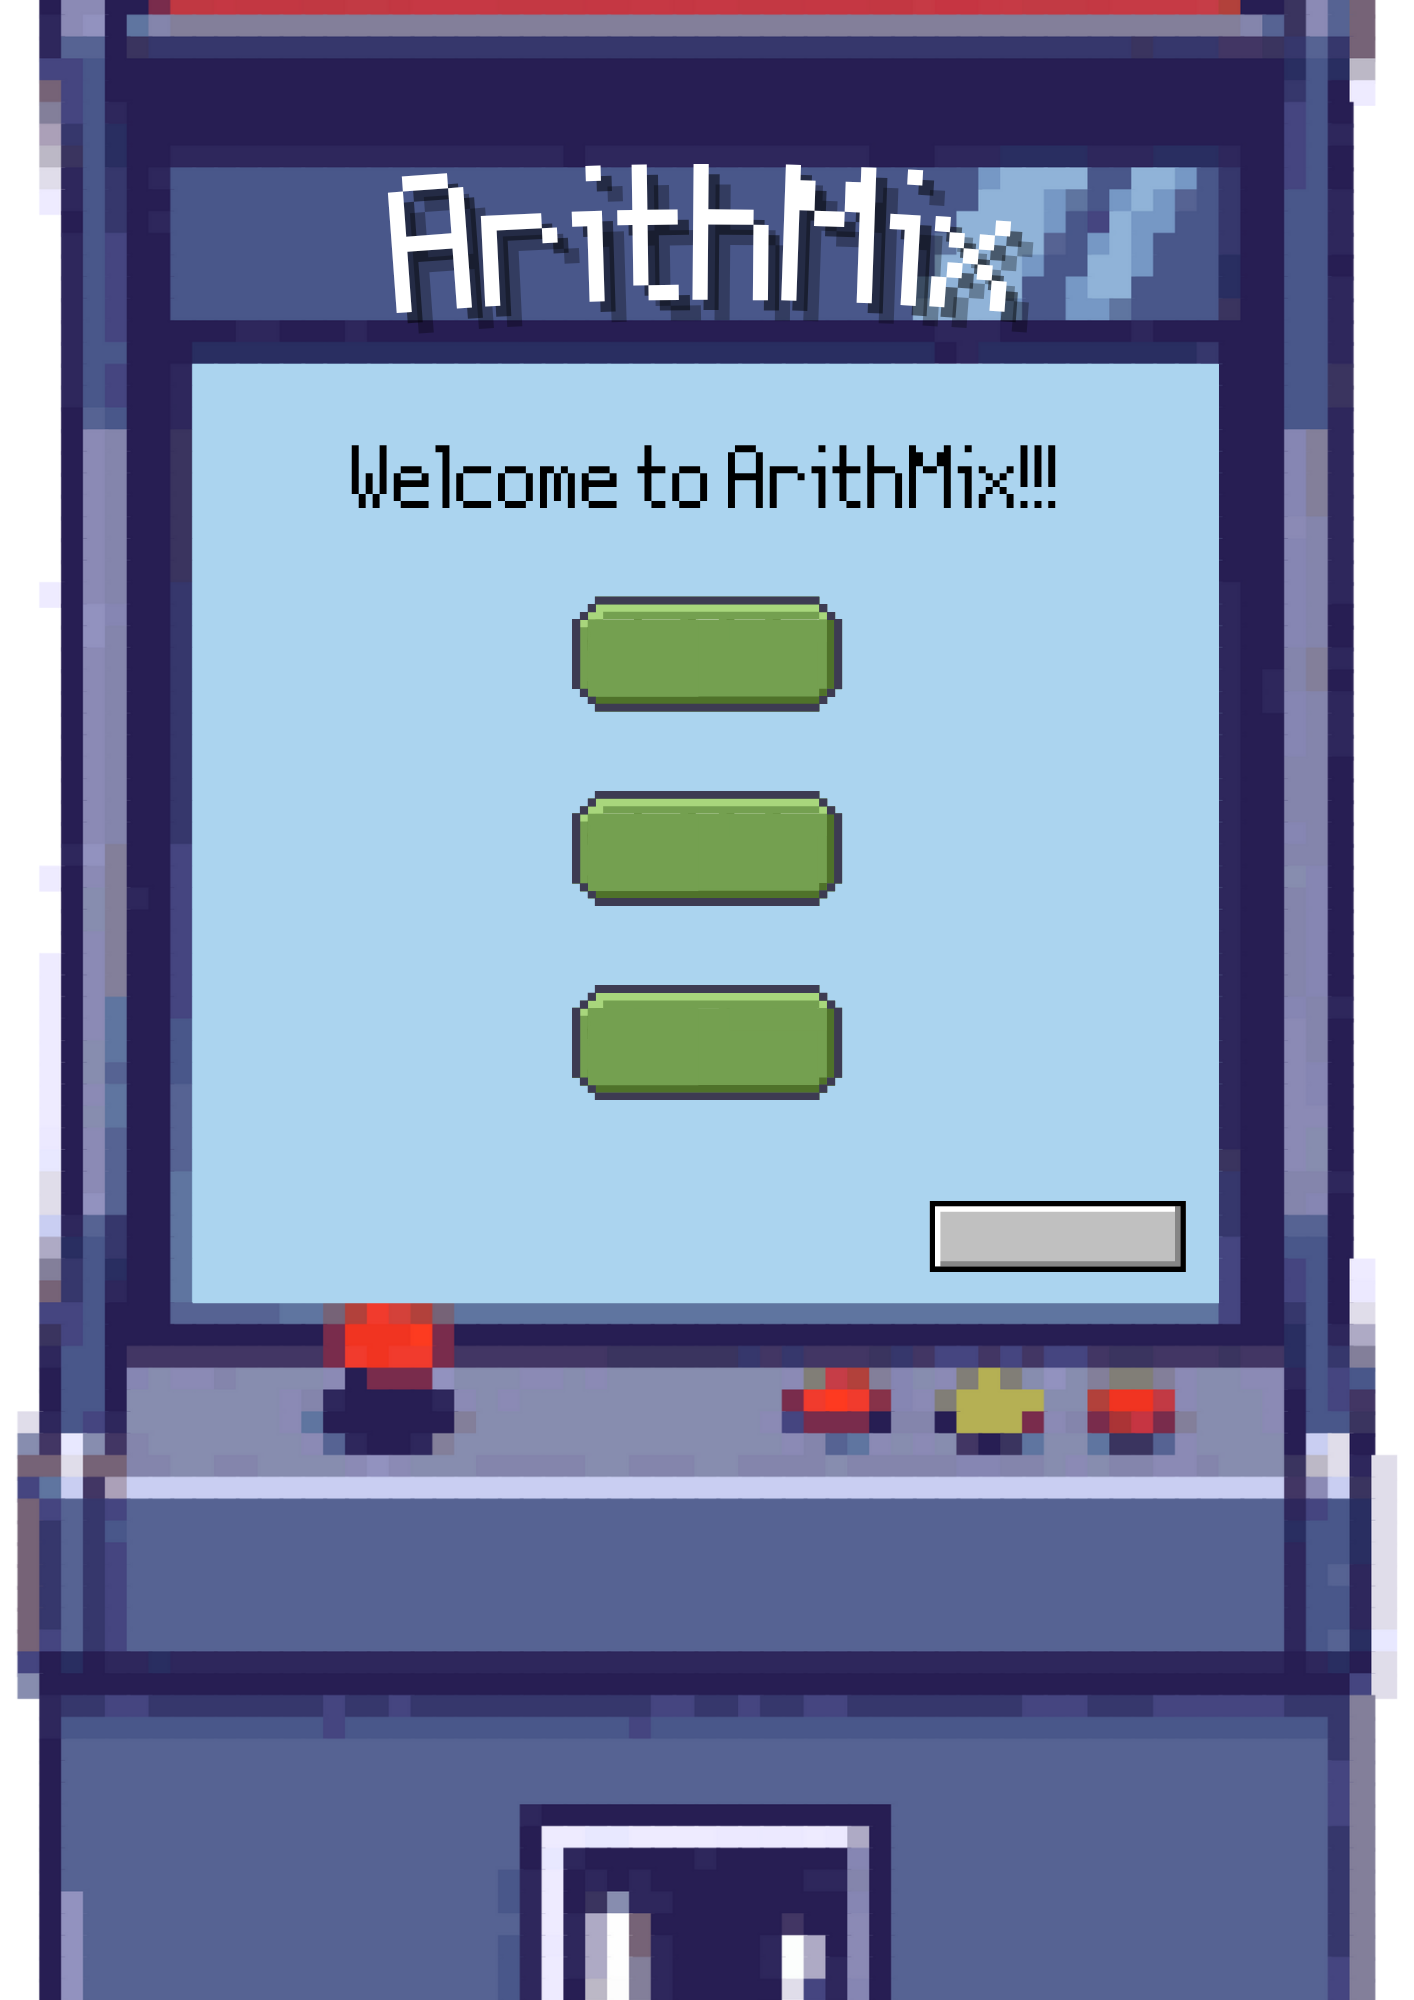
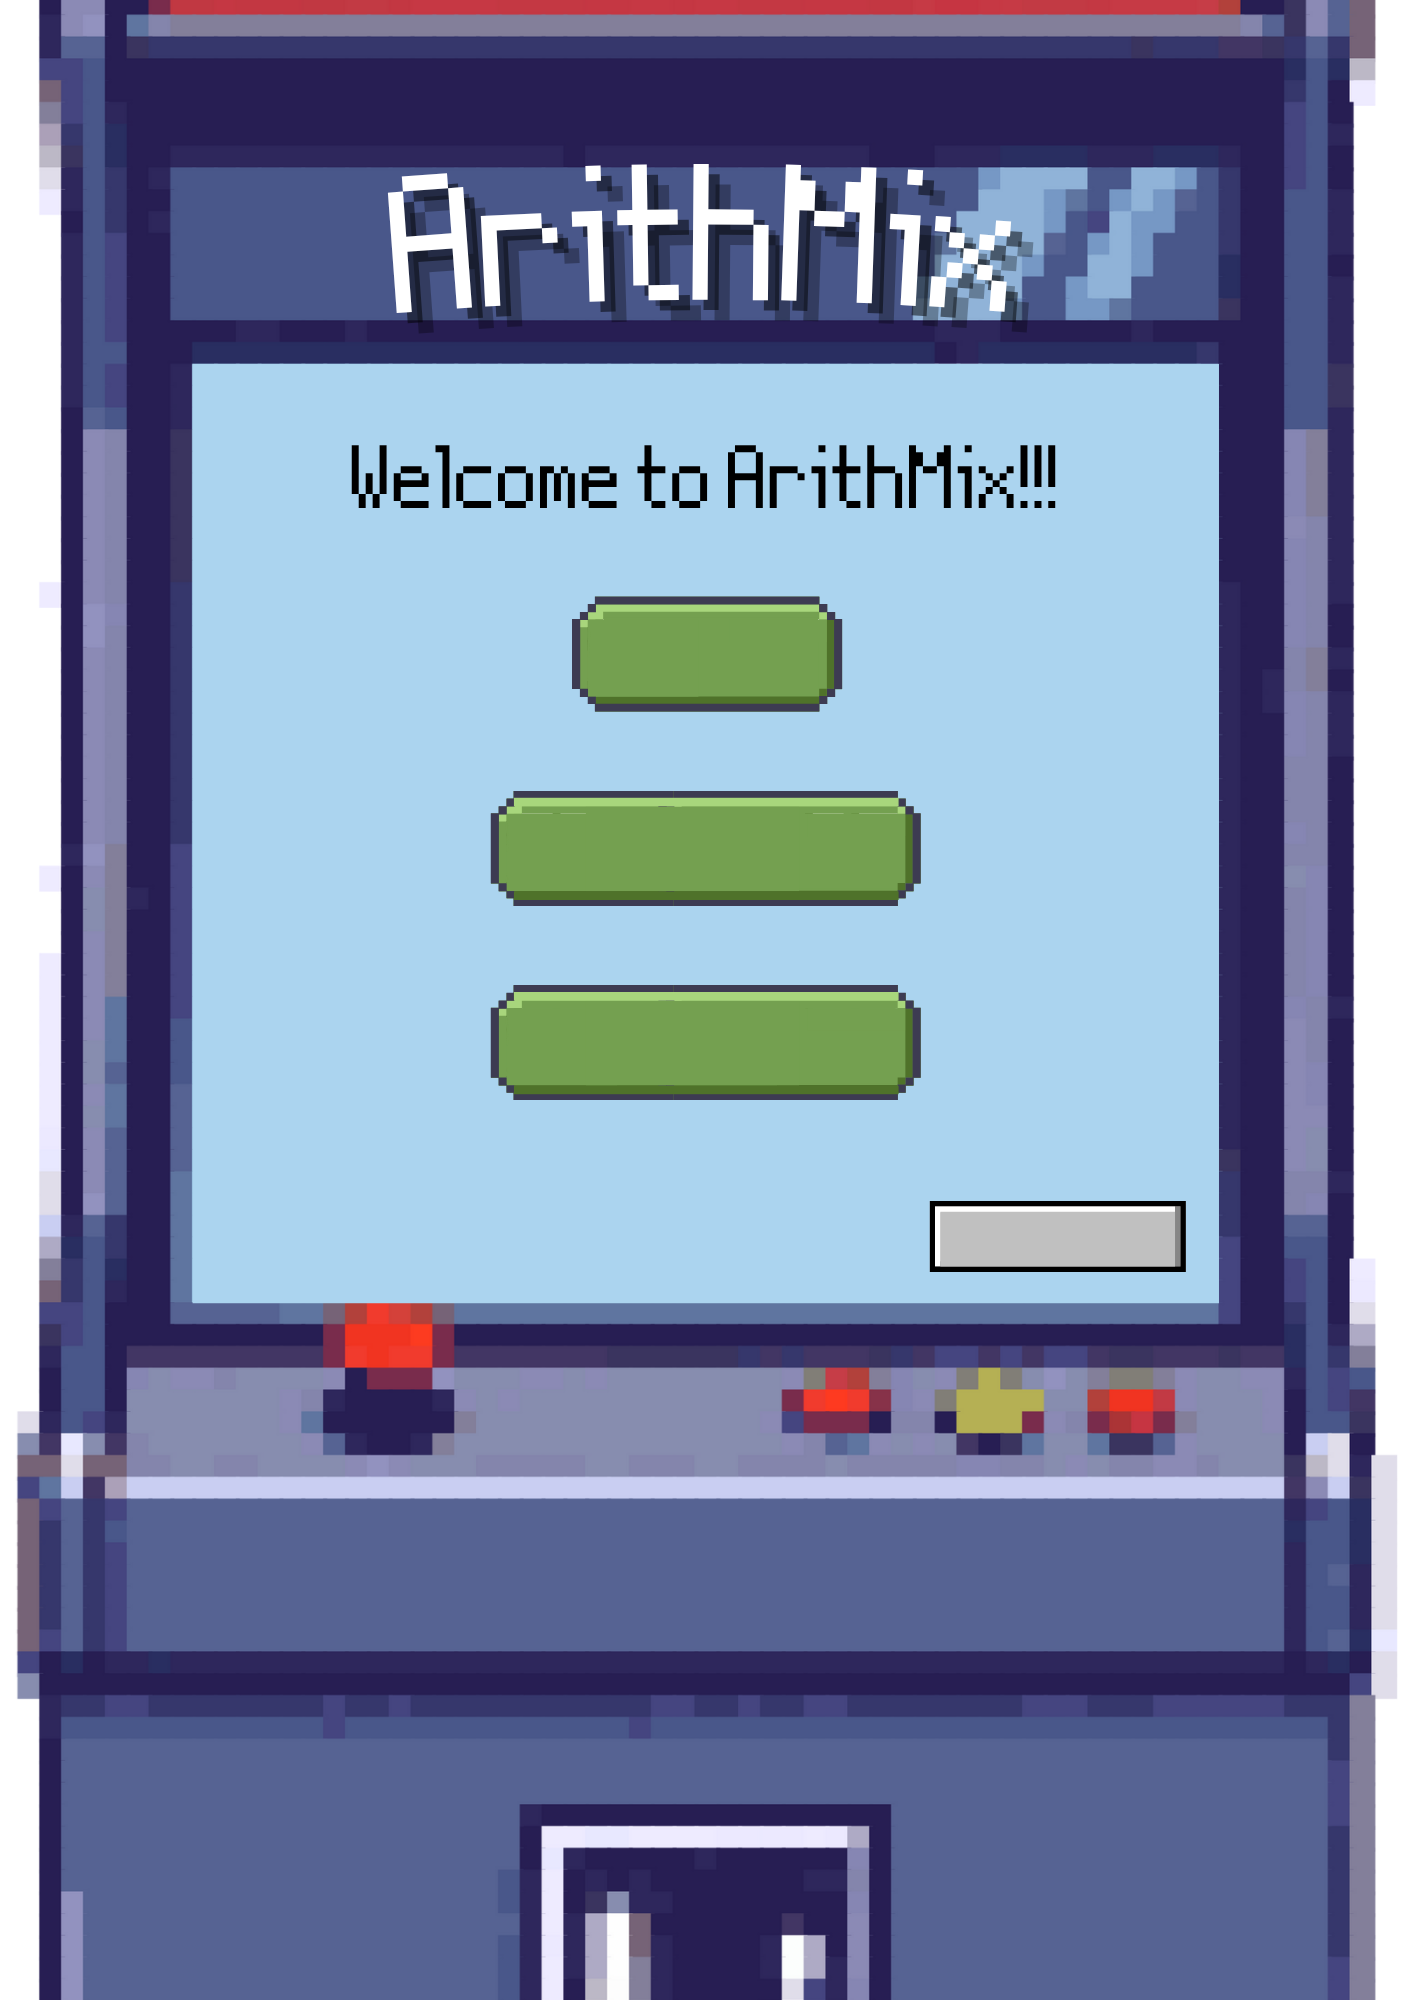
Update Exercise 1 - Math Quiz
- Updated some Images
- Added displayMenu
- Fixed button commands for correct functions

Changed region(s): [[0.5601, 0.372, 0.6535, 0.558], [0.3423, 0.372, 0.4356, 0.558]]

diff --git a/Exercise 1/Exercise 1 - Maths Quiz.py b/Exercise 1/Exercise 1 - Maths Quiz.py
@@ -10,11 +10,12 @@ root.resizable(0, 0)
 
 frame1 = Frame(root)
 frame2 = Frame(root)
+menu = Frame(root)
 
-for frame in (frame1, frame2):
+for frame in (frame1, frame2, menu):
     frame.place(x=0, y=0, relwidth=1, relheight=1)
 
-
+##Frame 1 - Starting Screen
 image1 = Image.open('Exercise 1\Images/1.png')
 image1 = image1.resize((595, 842), Image.LANCZOS)
 bg1 = ImageTk.PhotoImage(image1)
@@ -22,11 +23,10 @@ bg1 = ImageTk.PhotoImage(image1)
 bg_label1 = Label(frame1, image=bg1)
 bg_label1.place(x=0, y=0, relwidth=1, relheight=1)
 
+
 def go_to_frame2():
     frame2.tkraise()
 
-def go_to_frame1():
-    frame1.tkraise()
 
 start_button = Button(frame1,
                       text="Start",
@@ -38,12 +38,21 @@ start_button = Button(frame1,
 start_button.place(x=255, y=318)
 
 
+def go_to_frame1():
+    frame1.tkraise()
+
+
+##Frame2 - Next Screen
 image2 = Image.open('Exercise 1\Images/2.png')
 image2 = image2.resize((595, 842), Image.LANCZOS)
 bg2 = ImageTk.PhotoImage(image2)
 
 bg_label2 = Label(frame2, image=bg2)
 bg_label2.place(x=0, y=0, relwidth=1, relheight=1)
+
+def displayMenu():
+    menu.tkraise()
+
 
 next_button = Button(frame2,
                      text="Next",
@@ -53,8 +62,44 @@ next_button = Button(frame2,
                      bg="#c0c0c0",
                      activebackground="#c0c0c0",
                      bd=0,
-                     command=go_to_frame1)
+                     command=displayMenu)
 next_button.place(x=408, y=510)
+
+##Menu Frame - Difficulty Selection
+menu_img = Image.open('Exercise 1\Images/3.png')
+menu_img = menu_img.resize((595, 842), Image.LANCZOS)
+menu_bg = ImageTk.PhotoImage(menu_img)
+
+menu_bg_label = Label(menu, image=menu_bg)
+menu_bg_label.place(x=0, y=0, relwidth=1, relheight=1)
+
+Button(menu, text="1. Easy (1-digit)", 
+            font=("Arial", 10),
+            bg="#74a050",
+            activebackground="#74a050",
+            bd=0).place(x=246, y=264)
+
+Button(menu, text="2. Moderate (2-digit)",
+       font=("Arial", 10),
+            bg="#74a050",
+            activebackground="#74a050",
+            bd=0).place(x=238, y=345)
+
+Button(menu, text="3. Advanced (4-digit)",
+       font=("Arial", 10),
+            bg="#74a050",
+            activebackground="#74a050",
+            bd=0).place(x=238, y=425)
+
+next_button_2 = Button(menu,
+                     text="Next",
+                     width=10, 
+                     height=1,
+                     font=("Arial", 9),
+                     bg="#c0c0c0",
+                     activebackground="#c0c0c0",
+                     bd=0)
+next_button_2.place(x=408, y=510)
 
 frame1.tkraise()
 
